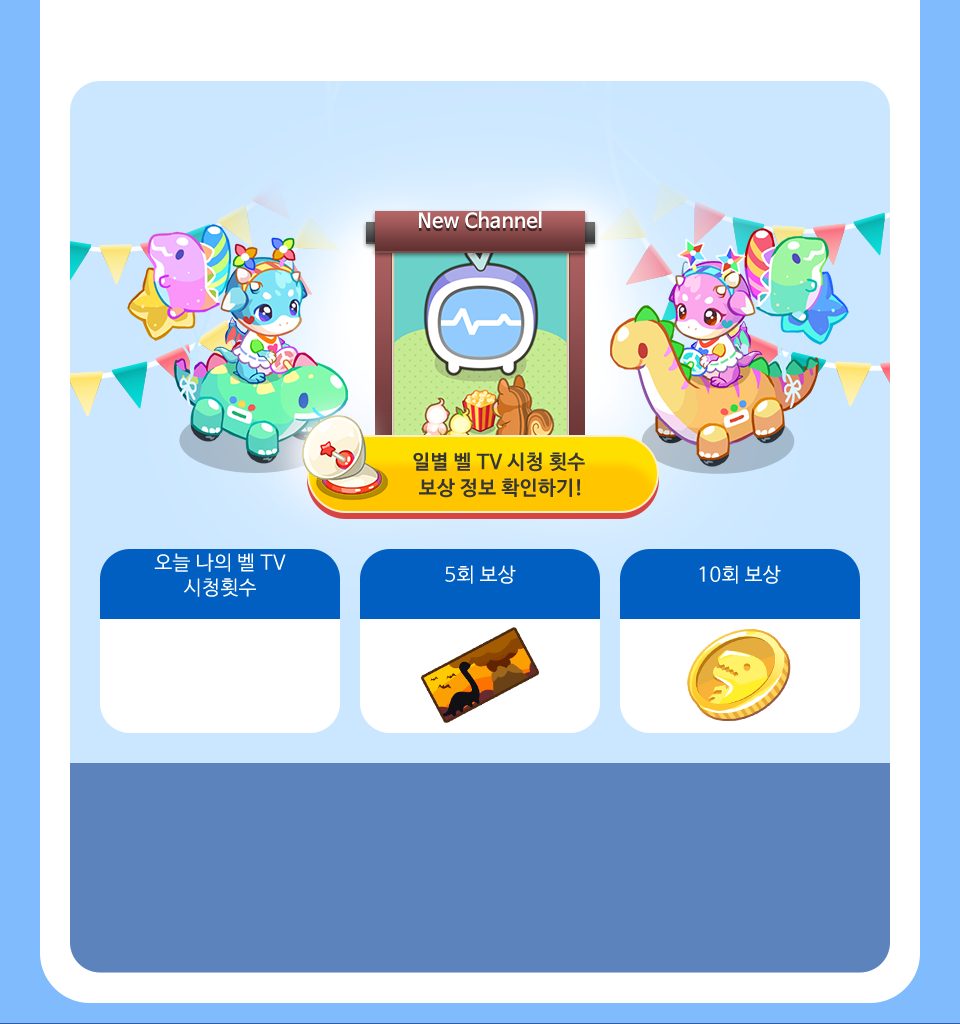
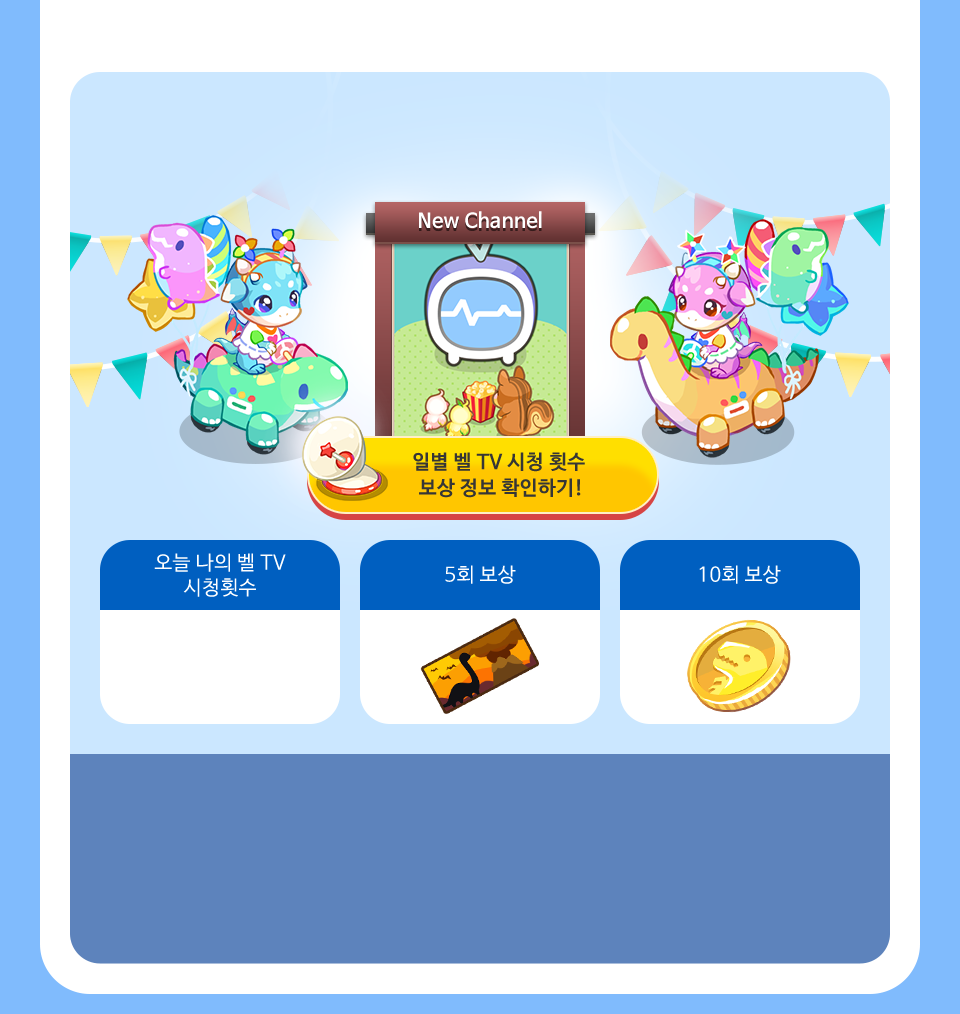
컴투스 이벤트 중간저장

diff --git a/css/event.css b/css/event.css
@@ -12,14 +12,13 @@
 .event-section {position:relative;width:100%;height:100%}
 .event-section__inner {position:relative;height:100%;font-family:'NanumBarunGothic';}
 .event-image {display:block;width:100%;vertical-align:top;image-rendering:-webkit-optimize-contrast}
-.event-email {text-decoration:underline !important;color:#ffd200 !important}
-.event-info-modify {display:inline-block;margin-top:6px;padding:6px 7px;border:1px solid #999}
+
 
 .event-title {    
     position: absolute;
     top: 3.3%;
     left: 50%;
-    width: 100%;
+    width: 92%;
     font-size: 3.5vw;
     letter-spacing: -0.2px;
     color: #4e49f1;
@@ -32,11 +31,10 @@
 position: absolute;
     top: 12.6%;
     left: 50%;
-    width: 100%;
+    width: 85%;
     font-size: 2.3vw;
     letter-spacing: -0.4px;
     color: #363636;
-    font-family: 'NanumBarunGothic';
     transform: translateX(-50%);
     text-align: center;
 }
@@ -50,7 +48,7 @@ position: absolute;
     position: absolute;
     bottom: 9.1%;
     left: 10.2%;
-    width: 100%;
+    width: 82%;
 }
 .event-notice li {position: relative;
     padding-left: 1.4%;
@@ -58,7 +56,7 @@ position: absolute;
     font-size: 2vw;
     letter-spacing: 0.4px;
     color: #fff;
-    font-family: 'NanumBarunGothic';}
+   }
     .event-notice li:first-child {margin-top:0}
     .event-notice li:last-child {padding-left:0;}
 .event-notice span {position: absolute;
@@ -70,7 +68,7 @@ position: absolute;
 .event-section__inner--3 .event-title {top:0}
 .event-section__inner--3 .event-text {top: 8.9%;}
 .event-ticket  {    position: absolute;
-    top: 38.8%;
+    top: 39.3%;
     left: 29%;
     width: 15%;
     text-align:center;

diff --git a/test_page01.html b/test_page01.html
@@ -155,8 +155,8 @@
 			<h1><img class="event-image" src="img/m_event05.png" alt="3. 벨 TV에 새로운 채널이 추가되었어요!"></h1>
             <p class="event-title">3. 벨 TV에 새로운 채널이 추가되었어요!</p>
             <p class="event-text">
-벨TV에 새로운 이벤트 채널 2개가 오픈 되었어요! <br/>
-이벤트 채널 추가를 기념하여 매일 벨TV를 5회 이상, 10회 이상 시청시  <br/>
+벨TV에 새로운 <strong>이벤트 채널 2개</strong>가 오픈 되었어요! <br/>
+이벤트 채널 추가를 기념하여 <strong>매일 벨TV를 5회 이상, 10회 이상 시청</strong>시  <br/>
 각 횟수 별 보상을 지급해 드려요.
             </p>
             <a href="/job/JobDetail.asp?adid=118042690" class="event-btn" onclick="_lsCtrl.goInOutLink({url:this.href,action:'NEW_WINDOW'});return false;">
